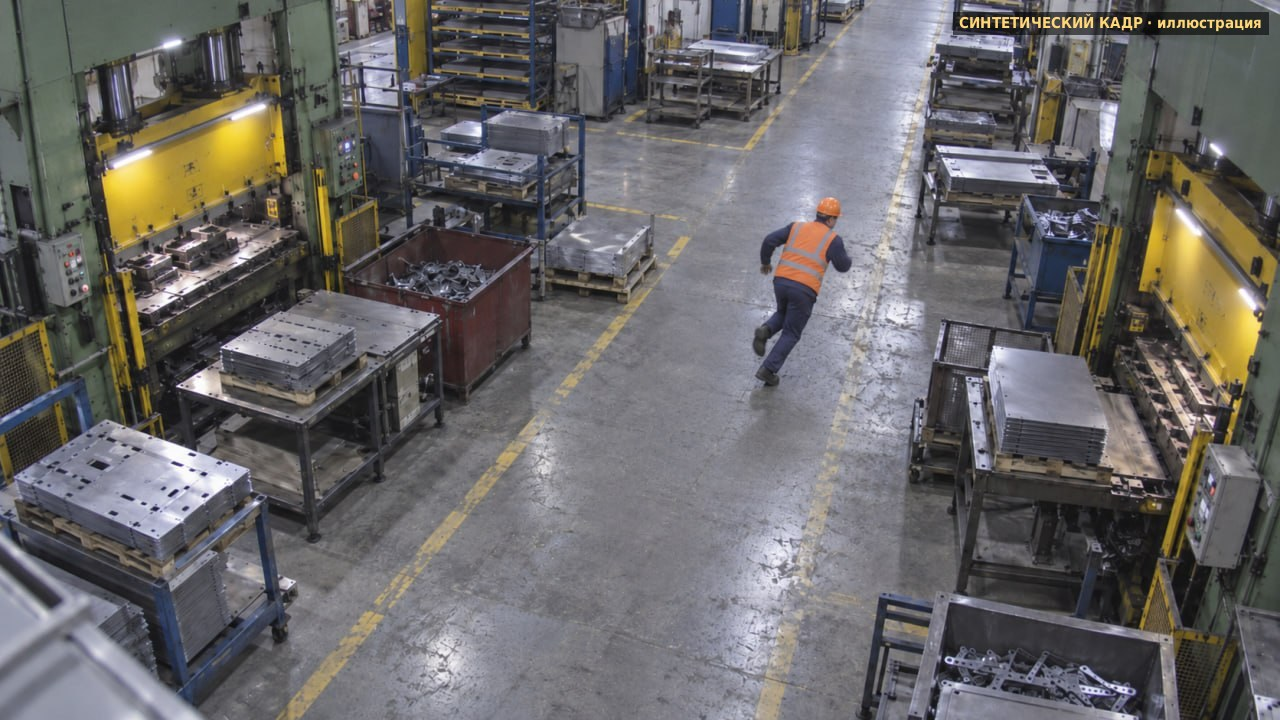
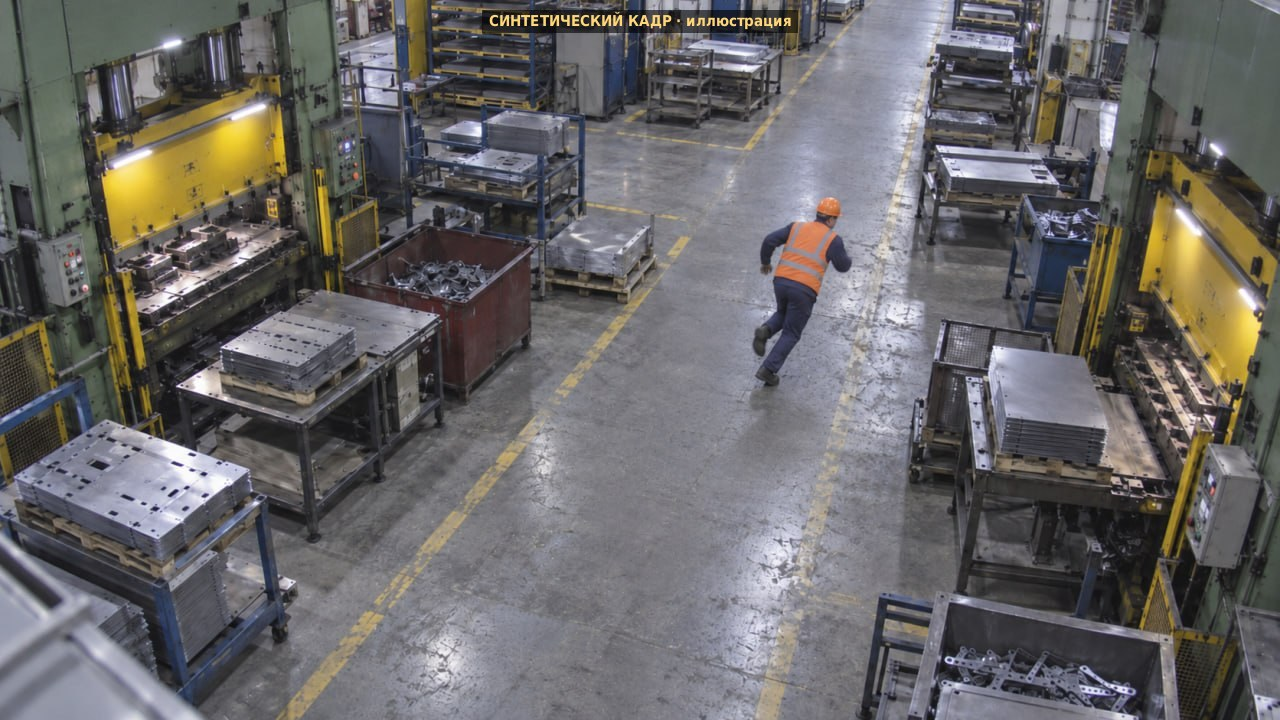
checkpoint-demo: synthetic-frame label at top centre (free of all UI overlays)
Claude-Session: https://claude.ai/code/session_01PqstoxxLrrzGv7wnfwd64y

Changed region(s): [[0.7188, 0.0, 1.0, 0.0611], [0.375, 0.0, 0.625, 0.0611]]

diff --git a/tools/checkpoint-demo/previews/README.md b/tools/checkpoint-demo/previews/README.md
@@ -2,6 +2,6 @@
 
 Кадры камер для стены мока (`GET /api/cameras/{id}/preview`, файл `cam-<id>.jpg`, 16:9).
 Это синтетические иллюстрации: кадры одного завода, сгенерированные в ChatGPT Images 24.10 (камеры 1–7),
-на каждом подпись «СИНТЕТИЧЕСКИЙ КАДР · иллюстрация» в правом верхнем углу.
+на каждом подпись «СИНТЕТИЧЕСКИЙ КАДР · иллюстрация» сверху по центру.
 Не запись с камер и не результат нейросети. Свой кадр: положите `cam-<id>.jpg` и перезапустите мок.
 Нет файла или камера без наблюдения — `preview_url: null`.
